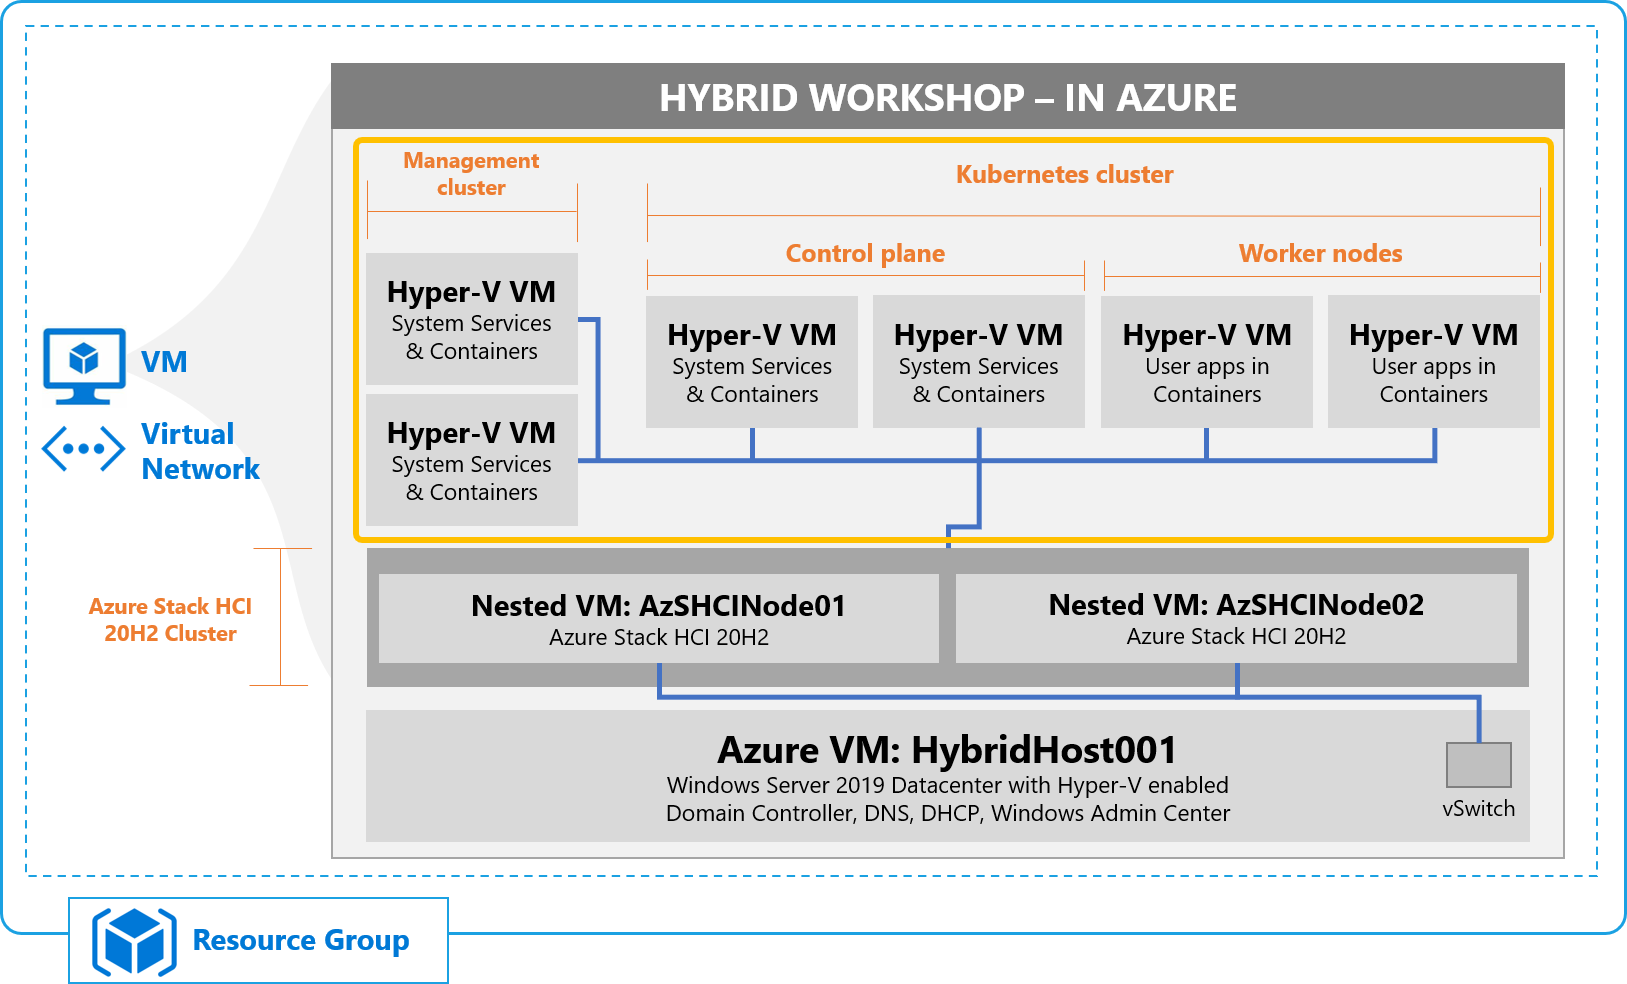
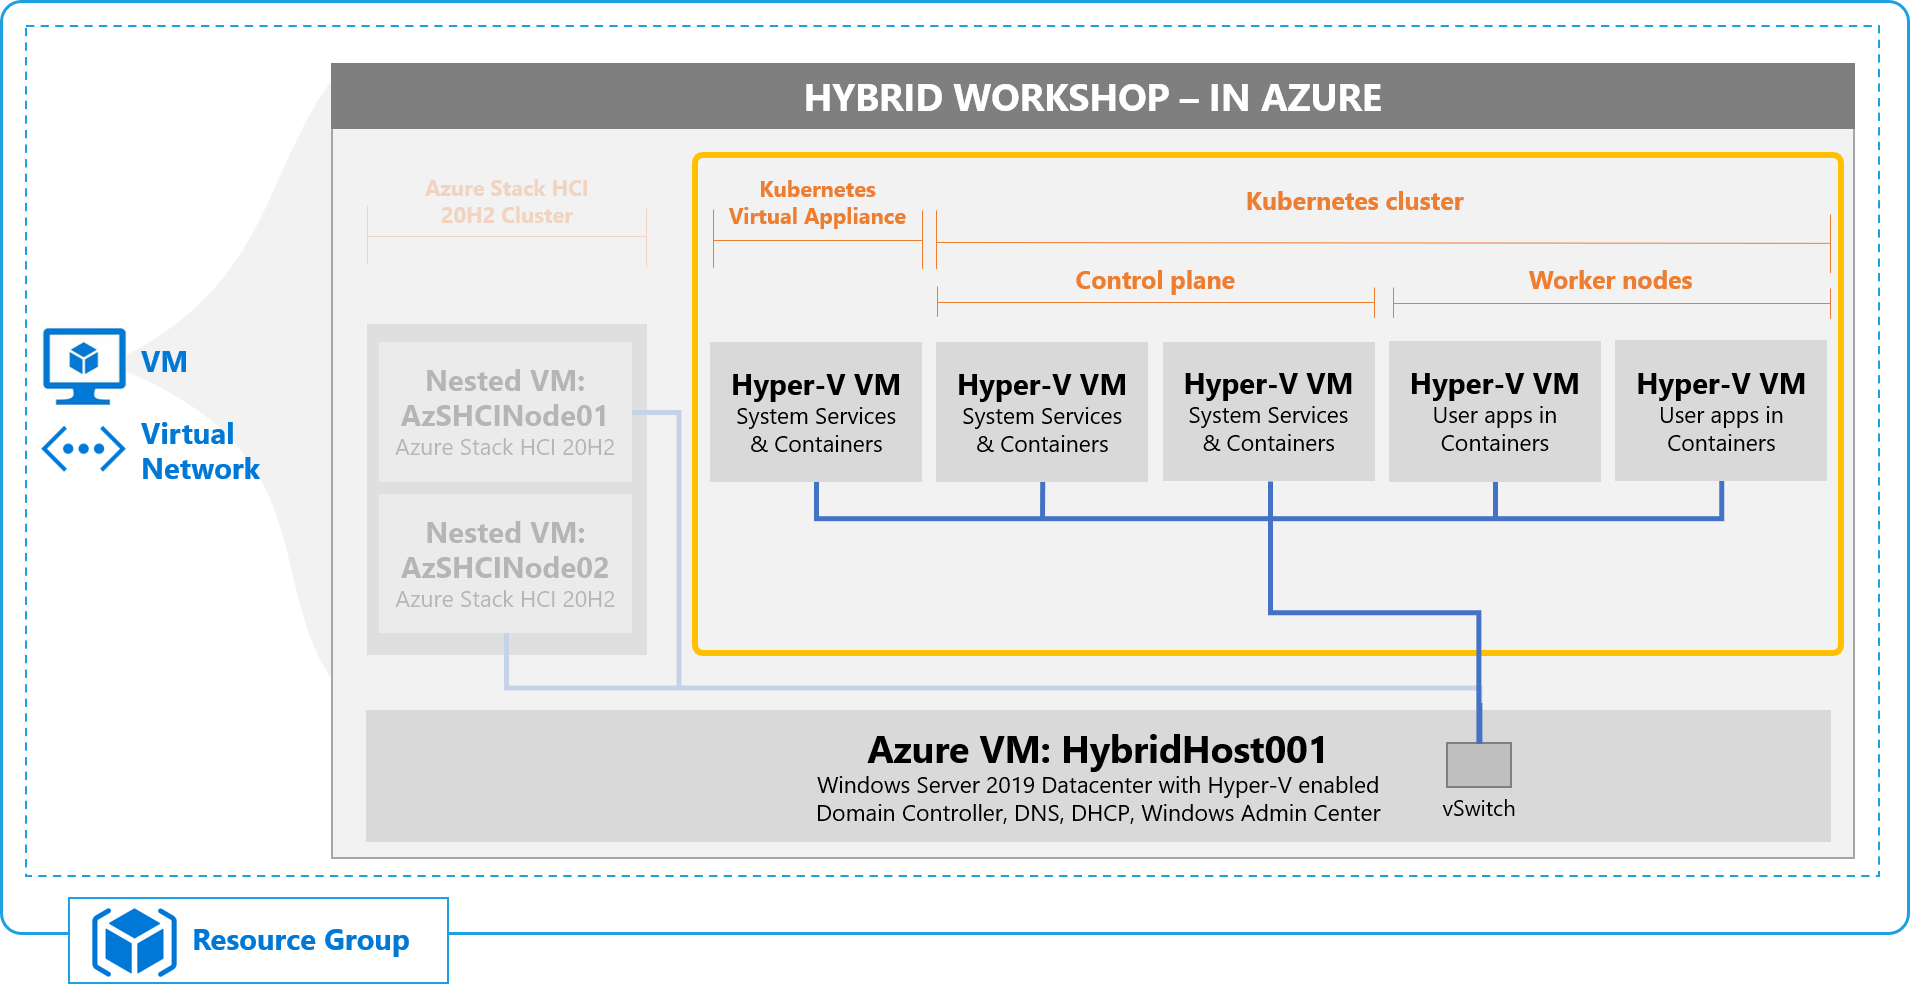
Updated steps

diff --git a/steps/1_DeployAzureVM.md b/steps/1_DeployAzureVM.md
@@ -33,7 +33,14 @@ From an architecture perspective, the following graphic showcases the different 
 
 ![Architecture diagram for AKS on Azure Stack HCI in Azure](/media/nested_virt_arch_ga.png "Architecture diagram for AKS on Azure Stack HCI in Azure")
 
-The outer box represents the Azure Resource Group, which will contain all of the artifacts deployed in Azure, including the virtual machine itself, and accompaying network adapter, storage and so on. You'll deploy an Azure VM running Windows Server 2019 Datacenter. On top of this, you'll run a **2-node Azure Stack HCI 20H2 cluster**.  On top of this Azure Stack HCI 20H2 cluster, you'll deploy the AKS on Azure Stack HCI **management cluster**. This provides the the core orchestration mechanism and interface for deploying and managing one or more **target clusters**. These target, or workload clusters contain worker nodes and are where application workloads run. These are managed by a management cluster. If you're interested in learning more about the building blocks of the Kubernetes infrastructure, you can [read more here](https://docs.microsoft.com/en-us/azure-stack/aks-hci/kubernetes-concepts "Kubernetes core concepts for Azure Kubernetes Service on Azure Stack HCI").
+The outer box represents the Azure Resource Group, which will contain all of the artifacts deployed in Azure, including the virtual machine itself, and accompaying network adapter, storage and so on. You'll deploy an Azure VM running Windows Server 2019 Datacenter. On top of this, you'll run the following:
+
+* A **2-node Azure Stack HCI 20H2 cluster**.
+* An **AKS-HCI infrastructure**, which includes a management cluster (kubernetes virtual appliance) and a target cluster, which is where you ultimately run your applications.
+
+These will de deployed as 2 separate environments within the same Azure VM. In a production environment, you would run AKS-HCI **on top of** Azure Stack HCI, but in this nested environment, the performance of the multiple levels of nesting can have a negative impact, so in this case, they will be deployed side by side for evaluation.
+
+If you're interested in learning more about the building blocks of the Kubernetes infrastructure, you can [read more here](https://docs.microsoft.com/en-us/azure-stack/aks-hci/kubernetes-concepts "Kubernetes core concepts for Azure Kubernetes Service on Azure Stack HCI").
 
 Important Note
 -----------
@@ -175,67 +182,17 @@ Please Read - Finish Setup
 -----------
 This workshop lab is configured to maximize resource utilization and in some cases, doesn't follow best-practices. As a result, sometimes, issues can arise. It's highly recommended to run following Powershell code to overcome possible **Kerberos related configuration issues**. The following code creates a new OU in Active Directory, pre-stages the computer accounts and delegates all computers in the OU to the Windows Admin Center computer (HybridHost001) and also allows full control access to Cluster CNO on the new OU.
 
-Run the following command **from an administrative PowerShell console**:
+Run the following command **from an administrative PowerShell console**, accepting any prompts that appear.
 
 ```powershell
-$targetHost = "HybridHost001"
-$AzureStackHCIHosts = Get-VM -Name "*AZSHCINODE*"
-$AzureStackHCIClusterName = "AZSHCICLUS"
-$ouName = "AzSHCICluster"
-
-$dn = Get-ADOrganizationalUnit -Filter * | Where-Object name -eq $ouName
-if (-not ($dn)) {
-    $dn = New-ADOrganizationalUnit -Name $ouName -PassThru
-}
-        
-#Get Wac Computer Object
-$targetHostObject = Get-ADComputer -Filter * | Where-Object name -eq "HybridHost001"
-if (-not ($targetHostObject)) {
-    $targetHostObject = New-ADComputer -Name $targetHost -Enabled $false -PassThru
-}
-
-# Creates Azure Stack HCI hosts if not exist
-if ($AzureStackHCIHosts.Name) {
-    $AzureStackHCIHosts.Name | ForEach-Object {
-        $comp = Get-ADComputer -Filter * | Where-Object Name -eq $_
-        if (-not ($comp)) {
-            New-ADComputer -Name $_ -Enabled $false -Path $dn -PrincipalsAllowedToDelegateToAccount $targetHostObject
-        }
-        else {
-            $comp | Set-ADComputer -PrincipalsAllowedToDelegateToAccount $targetHostObject
-            $comp | Move-AdObject -TargetPath $dn
-        }
-    }
-}
-
-# Creates Azure Stack HCI Cluster CNO if not exist
-$AzureStackHCIClusterObject = Get-ADComputer -Filter * | Where-Object name -eq $AzureStackHCIClusterName
-if (-not ($AzureStackHCIClusterObject)) {
-    $AzureStackHCIClusterObject = New-ADComputer -Name $AzureStackHCIClusterName -Enabled $false `
-    -Path $dn -PrincipalsAllowedToDelegateToAccount $targetHostObject -PassThru
-}
-else {
-    $AzureStackHCIClusterObject | Set-ADComputer -PrincipalsAllowedToDelegateToAccount $targetHostObject
-    $AzureStackHCIClusterObject | Move-AdObject -TargetPath $dn
-}    
-
-#read OU DACL
-$acl = Get-Acl -Path "AD:\$dn"
-
-# Set properties to allow Cluster CNO to Full Control on the new OU
-$principal = New-Object System.Security.Principal.SecurityIdentifier ($AzureStackHCIClusterObject).SID
-$ace = New-Object System.DirectoryServices.ActiveDirectoryAccessRule($principal, `
-[System.DirectoryServices.ActiveDirectoryRights]::GenericAll, [System.Security.AccessControl.AccessControlType]::Allow, `
-[DirectoryServices.ActiveDirectorySecurityInheritance]::All)
-
-#modify DACL
-$acl.AddAccessRule($ace)
-
-#Re-apply the modified DACL to the OU
-Set-ACL -ACLObject $acl -Path "AD:\$dn"
+Set-ExecutionPolicy -ExecutionPolicy Unrestricted
+cd V:\Sources
+.\Update-AD.ps1
 ```
 
-Once the Azure VM deployment process has completed, and you've run the above script, your Azure Stack HCI 20H2 nodes are still processing changes, including adding roles and features inside the nested hosts. Please allow ~5 minutes for this process to complete and stabilize.
+Once the Azure VM deployment process has completed, and you've run the above command, your Azure Stack HCI 20H2 nodes are still processing changes, including adding roles and features inside the nested hosts. Please allow ~5 minutes for this process to complete and stabilize.
+
+You can then optionally shut down your Azure VM, should you wish to continue your evaluation on another day.
 
 Next Steps
 -----------

diff --git a/steps/4_DeployAKSHCI.md b/steps/4_DeployAKSHCI.md
@@ -26,7 +26,7 @@ From an architecture perspective, as shown earlier, this graphic showcases the d
 
 ![Architecture diagram for AKS on Azure Stack HCI in Azure](/media/nested_virt_akshci_ga.png "Architecture diagram for AKS on Azure Stack HCI in Azure")
 
-You've already deployed the Azure Stack HCI 20H2 infrastucture. In this section, you'll use Windows Admin Center to deploy the management cluster. This provides the the core orchestration mechanism and interface for deploying and managing one or more target clusters. These target, or workload clusters contain worker nodes and are where application workloads run. These are managed by a management cluster. If you're interested in learning more about the building blocks of the Kubernetes infrastructure, you can [read more here](https://docs.microsoft.com/en-us/azure-stack/aks-hci/kubernetes-concepts "Kubernetes core concepts for Azure Kubernetes Service on Azure Stack HCI").
+In this section, you'll use Windows Admin Center to deploy the AKS on Azure Stack HCI, including all the key components. First, the management cluster (kubernetes virtual appliance) provides the the core orchestration mechanism and interface for deploying and managing one or more target clusters. These target, or workload clusters contain worker nodes and are where application workloads run. If you're interested in learning more about the building blocks of the Kubernetes infrastructure, you can [read more here](https://docs.microsoft.com/en-us/azure-stack/aks-hci/kubernetes-concepts "Kubernetes core concepts for Azure Kubernetes Service on Azure Stack HCI").
 
 Allow popups in Edge browser
 -----------
@@ -94,7 +94,7 @@ The next section will walk through configuring the AKS on Azure Stack HCI manage
 3. Click on **Set up** to start the deployment process
 4. Firstly, review the prerequisites - your environment will meet all the prerequisites, so you should be fine to click **Next: System checks**
 5. On the **System checks** page, enter the password for your **azureuser** account
-6. Once your credentials have been validated, Windows Admin Center will begin to validate it's own configuration, and the configuration of your target nodes, which in this case, is the Azure Stack HCI 20H2 cluster
+6. Once your credentials have been validated, Windows Admin Center will begin to validate it's own configuration, and the configuration of your target nodes, which in this case, is the Windows Server 2019 Hyper-V host (HybridHost001, running in your Azure VM)
 
 ![System checks performed by Windows Admin Center](/media/wac_system_checks.png "System checks performed by Windows Admin Center")
 
@@ -109,12 +109,12 @@ You'll notice that Windows Admin Center will validate memory, storage, networkin
 
 ![Host configuration in Windows Admin Center](/media/aks_hostconfig_hostdetails.png "Host configuration in Windows Admin Center")
 
-10. Under **VM Networking**, ensure that **ComputeSwitch** is selected for the **Internet-connected virtual switch**
+10. Under **VM Networking**, ensure that **InternalNAT** is selected for the **Internet-connected virtual switch**
 11. For **Enable virtual LAN identification**, leave this selected as **No**
 12. For **Cloudagent IP** this is optional, so we will leave this blank
 13. For **IP address allocation method** choose **DHCP**
 
-![Host configuration in Windows Admin Center](/media/aks_hostconfig_vmnet.png "Host configuration in Windows Admin Center")
+![Host configuration in Windows Admin Center](/media/aks_hostconfig_vmnet_int.png "Host configuration in Windows Admin Center")
 
 14.  Under **Load balancer settings**, enter the range from **192.168.0.150** to **192.168.0.250** and then click **Next:Azure registration**
 
@@ -199,7 +199,7 @@ Whichever option you chose, you will now be at the start of the **Create kuberne
 
 ![Enable Arc integration with Windows Admin Center](/media/aks_basics_arc.png "Enable Arc integration with Windows Admin Center")
 
-3. Still on the **Basics** page, under **Cluster details**, provide a **Kubernetes cluster name**, **Azure Kubernetes Service host**, which should be **azshciclus.hybrid.local**, enter your host credentials, then select the **Kubernetes version** from the drop down.
+3. Still on the **Basics** page, under **Cluster details**, provide a **Kubernetes cluster name**, **Azure Kubernetes Service host**, which should be **HybridHost001.hybrid.local**, enter your host credentials, then select the **Kubernetes version** from the drop down.
 
 ![AKS cluster details in Windows Admin Center](/media/aks_basics_cluster_details.png "AKS cluster details in Windows Admin Center")
 

diff --git a/steps/2_DeployAzSHCI.md b/steps/2_DeployAzSHCI.md
@@ -160,7 +160,7 @@ With the network configured for the workshop environment, it's time to construct
 
 1. Optionally, if you want to review the validation report, click on **Download report** and open the file in your browser.
 2. Back in the **Validate the cluster** screen, click **Next**
-3. On the **Create the cluster** page, enter your **cluster name** as **AZSHCICLUS**
+3. On the **Create the cluster** page, enter your **cluster name** as **AZSHCICLUS** (IMPORTANT - make sure you use AZSHCICLUS as the name of the cluster as we pre-created the AD object in Active Directory to reflect this name)
 4. Under **IP address**, click **Assign dynamically using DHCP**
 5. Expand **Advanced** and review the settings, then click **Create cluster**
 
